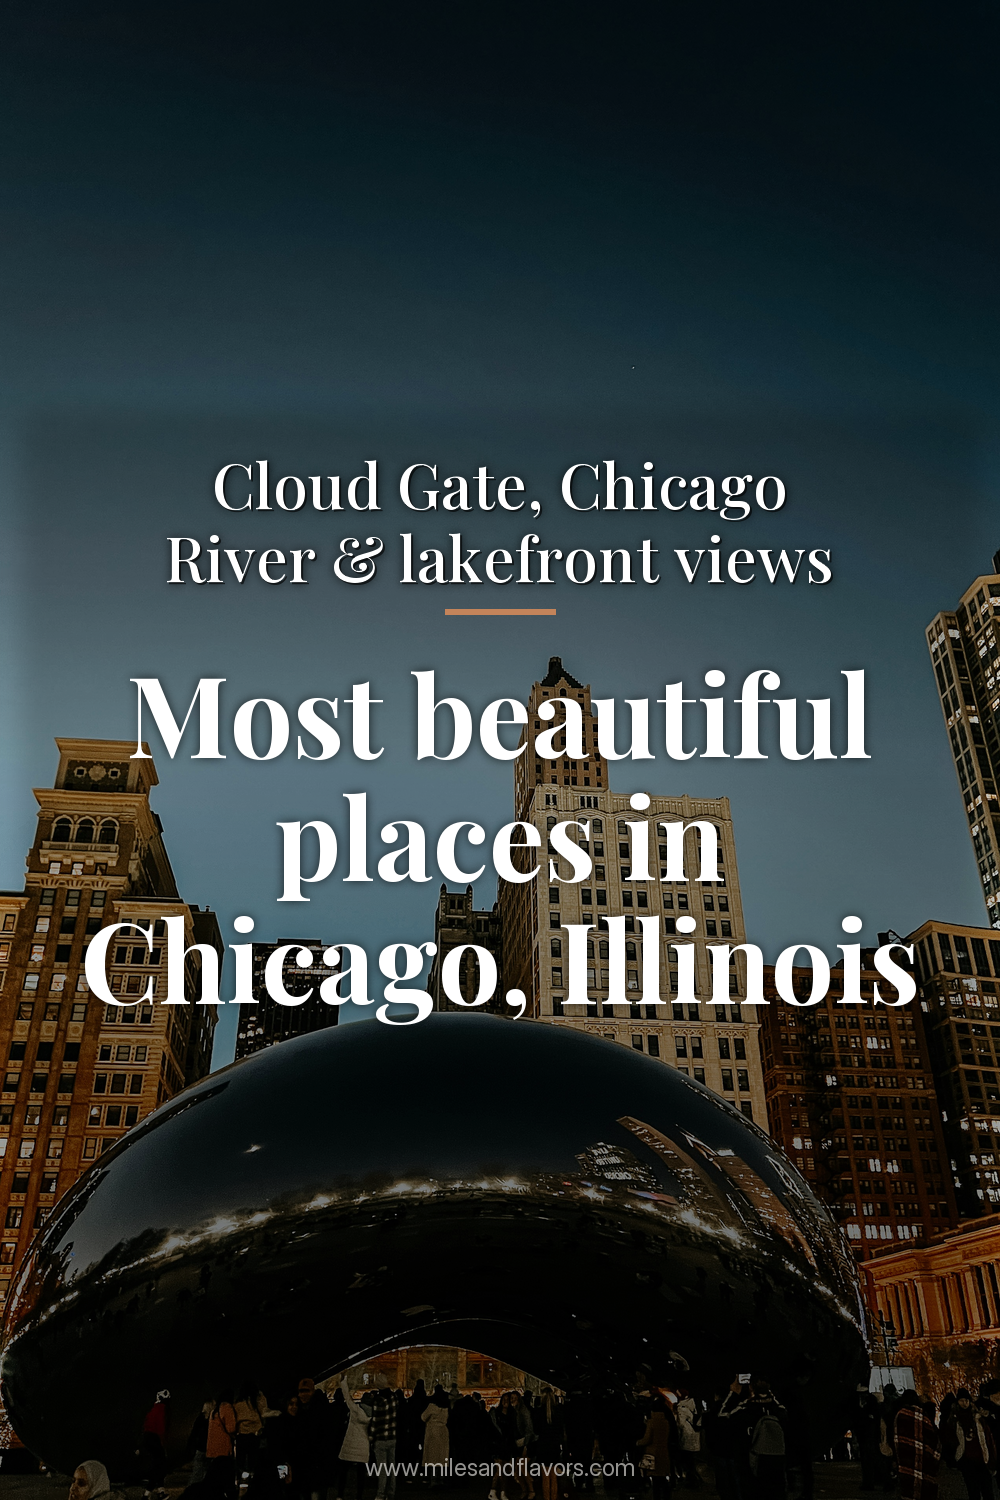
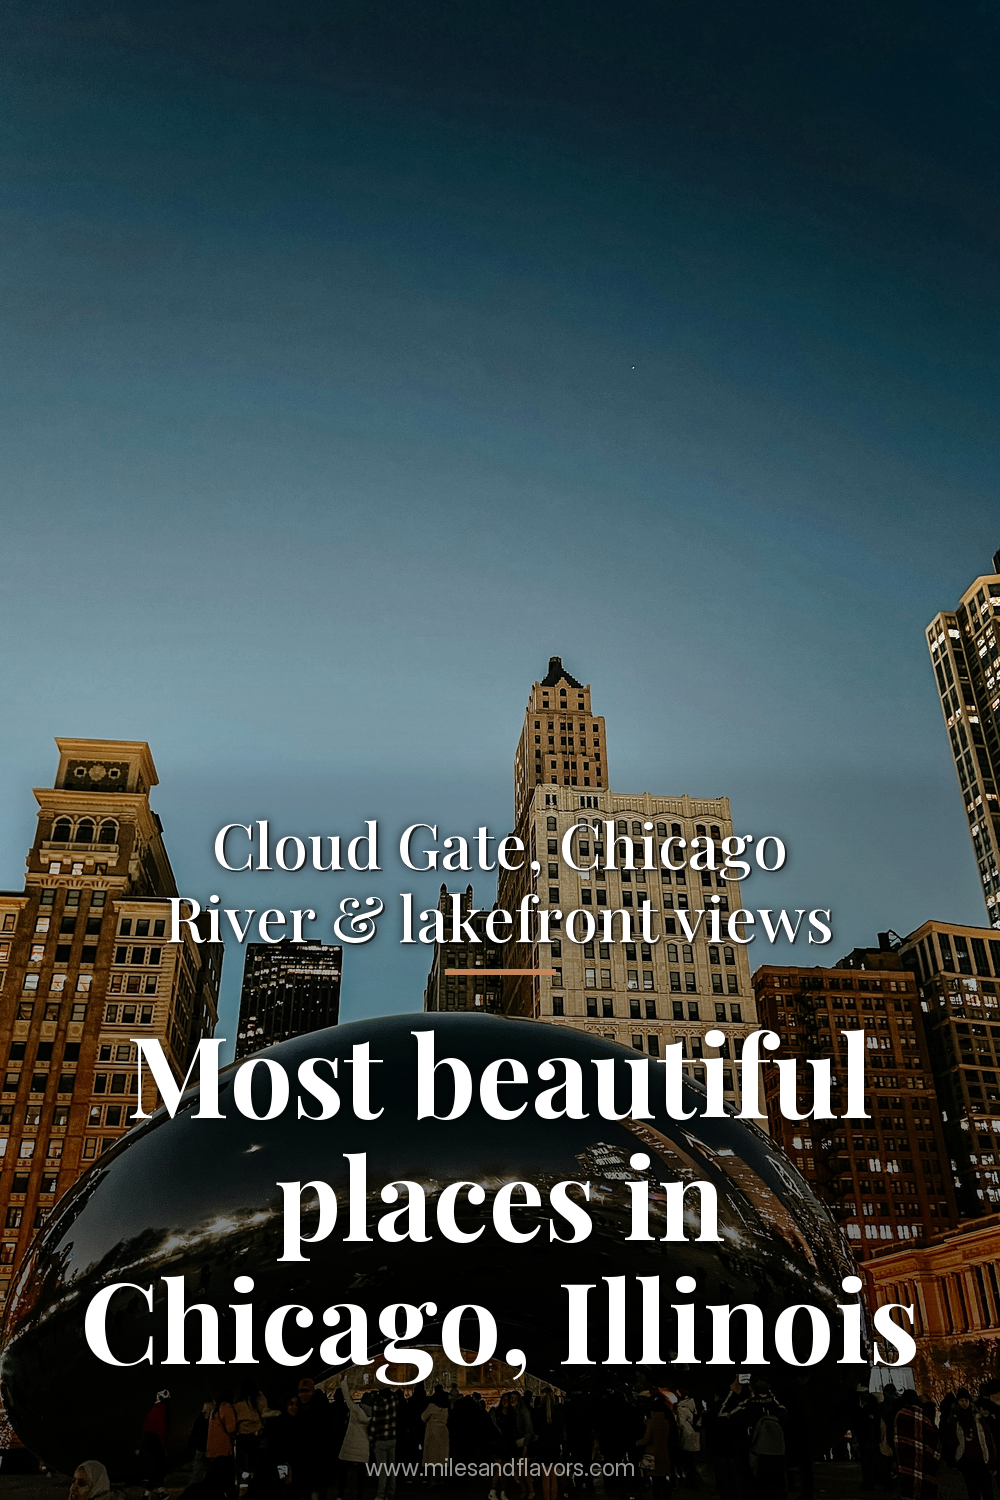
re-render 07.11-07.13: overlay lightened, zone fixes
- overlay default 82->62 (was too dark)
- nyc-in-a-day, free-barcelona: top->bottom (user preferred original)
- bcn-bucket 07.13 00: remove 'light' (slightly darker)
- chicago-firsttimer 07.13 01 + chicago-bucket 07.13 02: both bottom

diff --git a/render.py b/render.py
@@ -204,7 +204,7 @@ def parse_template(template):
         overlay_alpha = 50
         brightness = 1.0
     else:
-        overlay_alpha = 82
+        overlay_alpha = 62
         brightness = 1.0
     return zone_override, overlay_alpha, brightness
 
